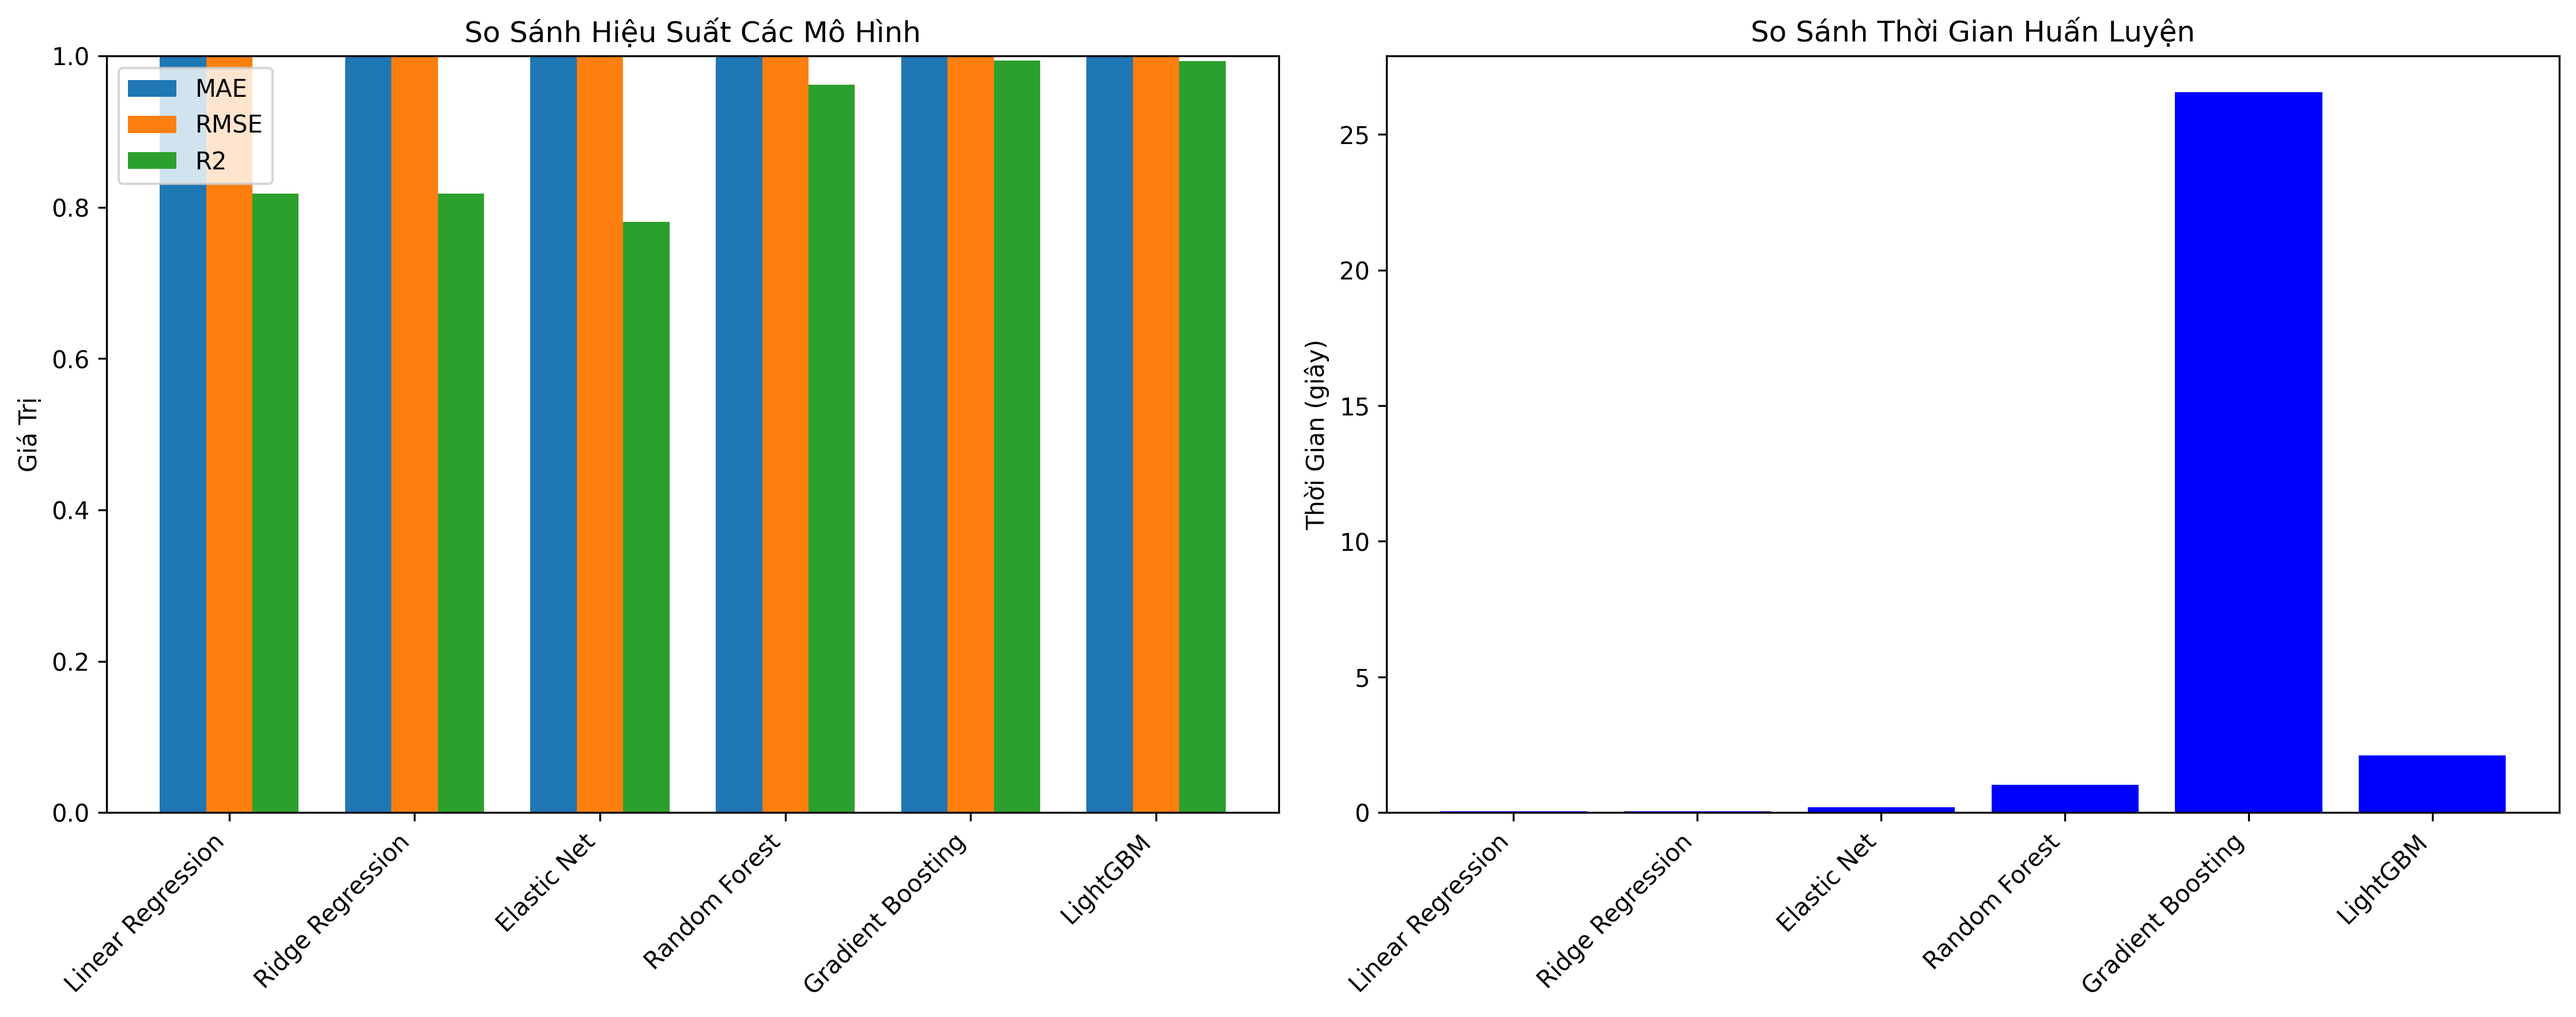
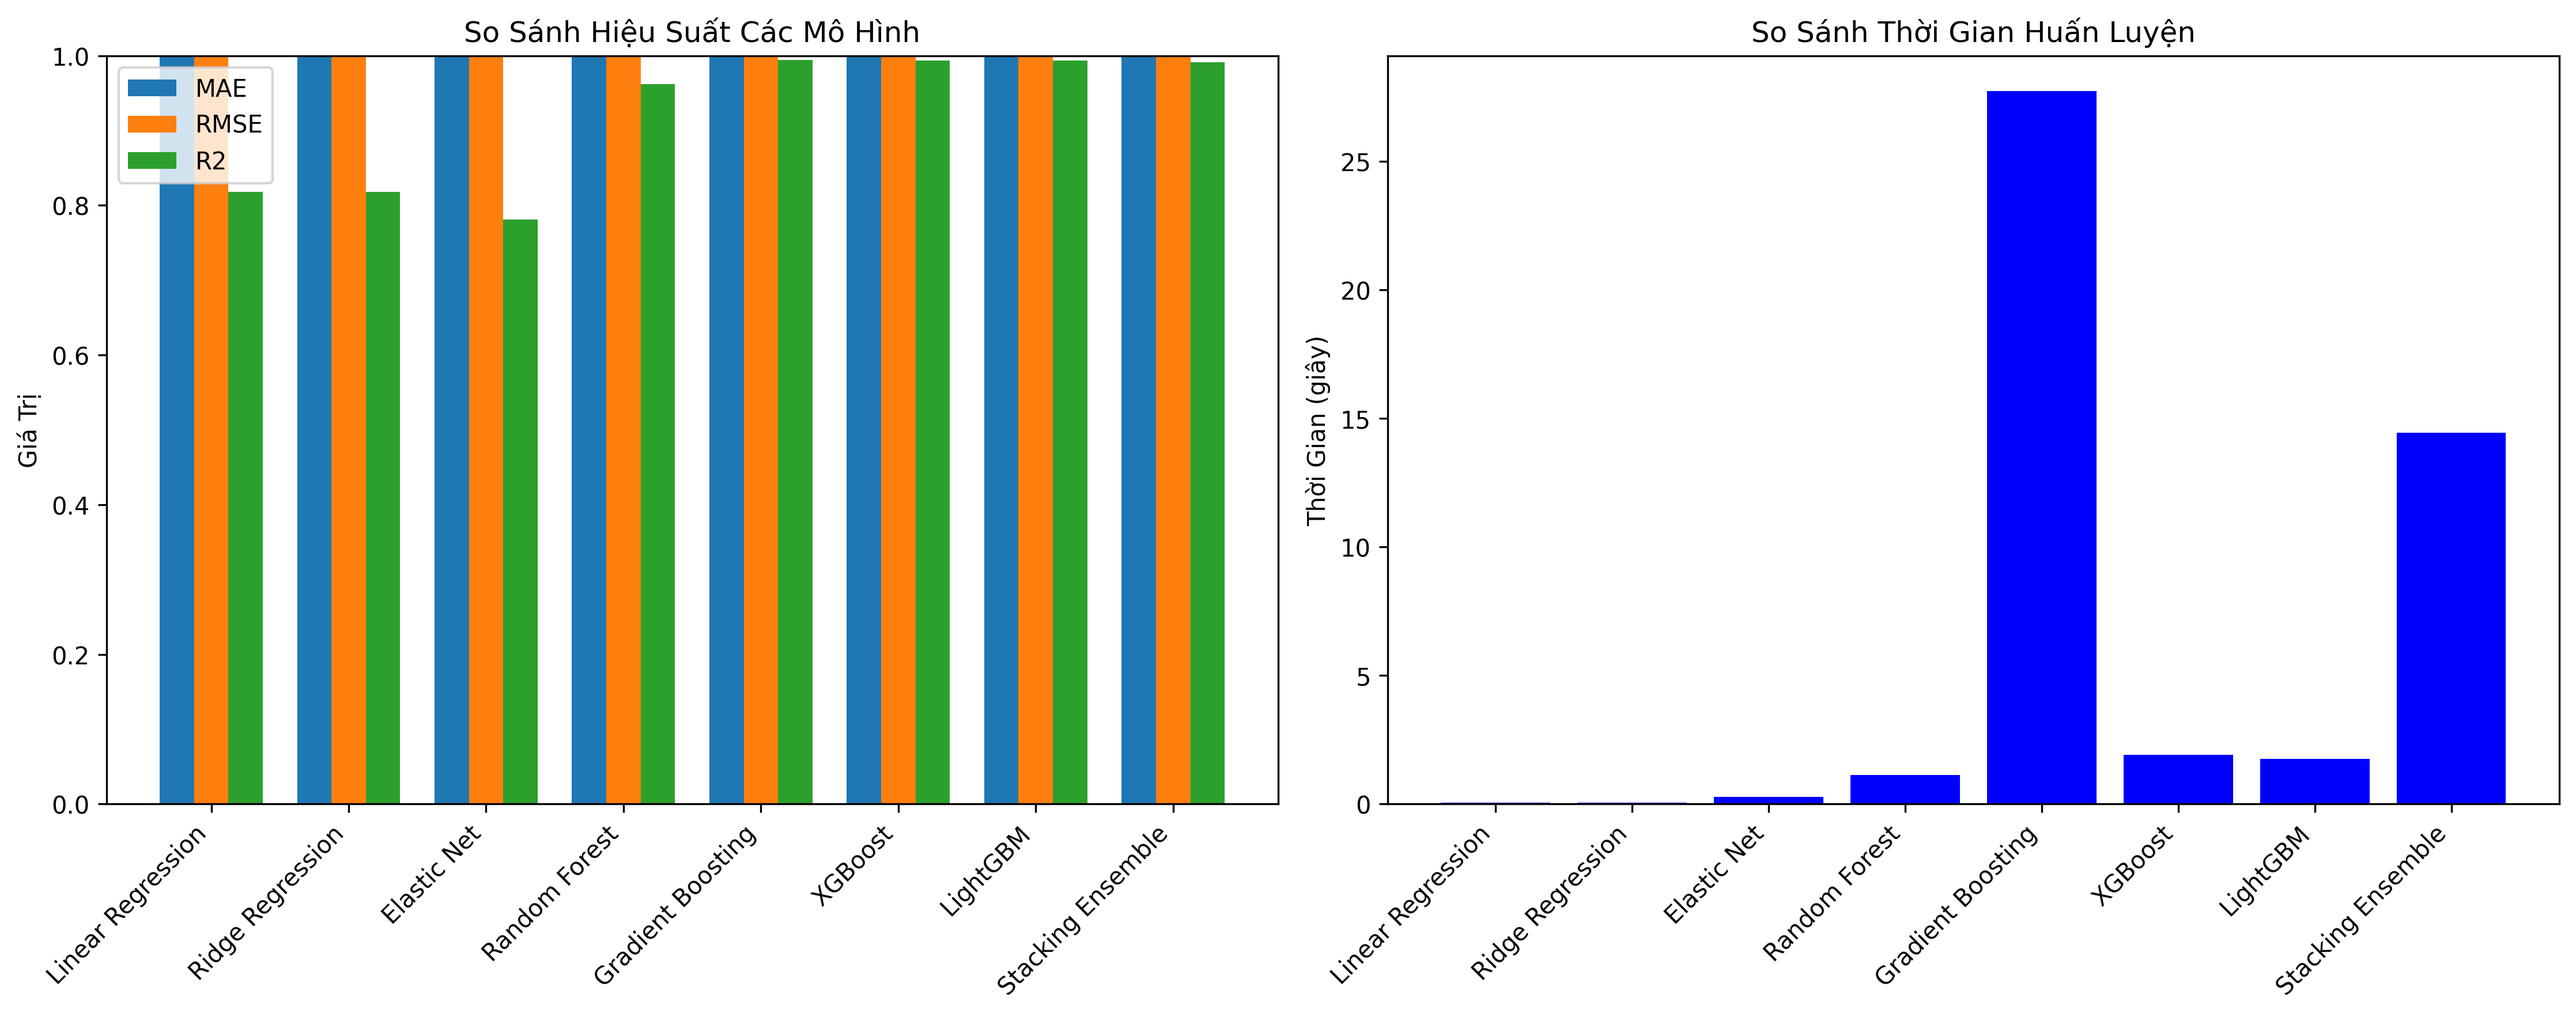
add model

diff --git a/model_training.py b/model_training.py
@@ -6,7 +6,7 @@ import logging
 import time
 import os
 from sklearn.linear_model import LinearRegression, Ridge, Lasso, ElasticNet
-from sklearn.ensemble import RandomForestRegressor, GradientBoostingRegressor
+from sklearn.ensemble import RandomForestRegressor, GradientBoostingRegressor, StackingRegressor
 from sklearn.model_selection import train_test_split, cross_val_score, learning_curve, GridSearchCV
 from sklearn.metrics import mean_squared_error, r2_score, mean_absolute_error, mean_absolute_percentage_error
 from sklearn.pipeline import Pipeline
@@ -61,8 +61,6 @@ BASE_MODELS = {
         n_jobs=N_JOBS,
         tree_method='hist',
         device = 'cuda',
-        predictor='gpu_predictor',
-        gpu_id=0
     ),
     'LightGBM': LGBMRegressor(
         n_estimators=200,
@@ -75,6 +73,16 @@ BASE_MODELS = {
         gpu_platform_id=0,
         gpu_device_id=0
     ),
+    'Stacking Ensemble': StackingRegressor(
+        estimators=[
+            ('rf', RandomForestRegressor(n_estimators=100, max_depth=10, random_state=RANDOM_STATE, n_jobs=N_JOBS)),
+            ('xgb', XGBRegressor(n_estimators=100, max_depth=8, learning_rate=0.05, random_state=RANDOM_STATE, n_jobs=N_JOBS, tree_method='hist', device='cuda')),
+            ('ridge', Ridge(alpha=1.0, max_iter=10000, random_state=RANDOM_STATE))
+        ],
+        final_estimator=Ridge(alpha=1.0, max_iter=10000, random_state=RANDOM_STATE),
+        n_jobs=N_JOBS,
+        passthrough=False
+    )
 }
 
 def preprocess_features(X_train, X_test, numeric_features, categorical_features):
